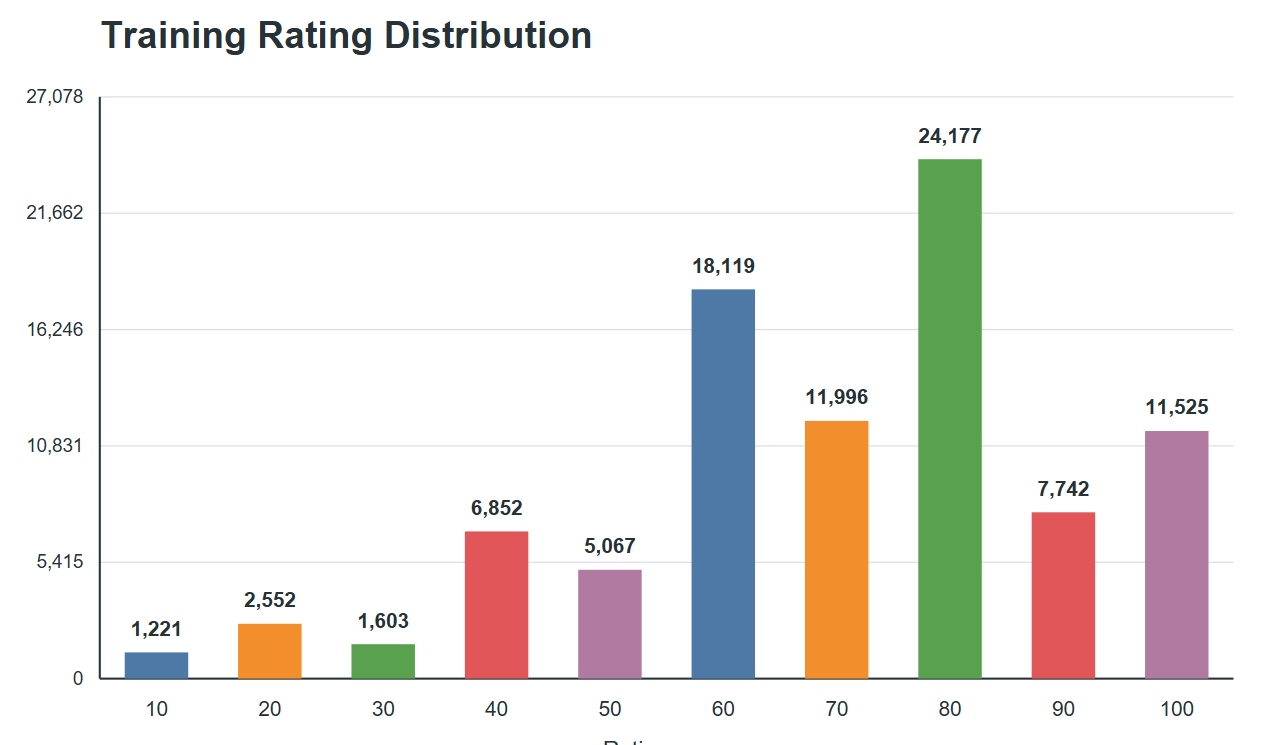
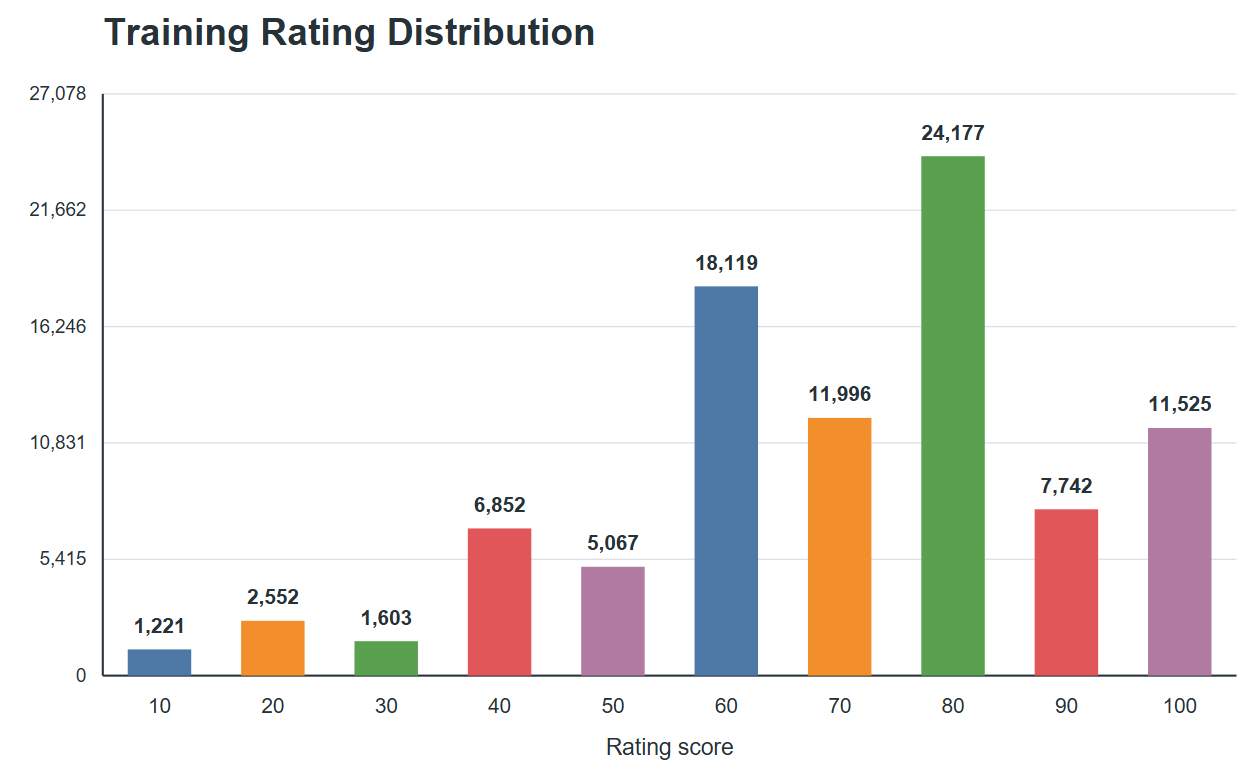
track2报告初版

Changed region(s): [[0.0311, 0.0926, 0.9944, 1.0], [0.0622, 0.0, 0.4972, 0.0926]]

diff --git a/任务二/report.tex b/任务二/report.tex
@@ -1,0 +1,356 @@
+% -*- coding: utf-8 -*-
+%-------------------------designed by zcf--------------
+\documentclass[UTF8,a4paper,10pt]{ctexart}
+\usepackage[left=3.17cm, right=3.17cm, top=2.74cm, bottom=2.74cm]{geometry}
+\usepackage{amsmath}
+\usepackage{graphicx,subfig}
+\usepackage{float}
+\usepackage{cite}
+\usepackage{caption}
+\usepackage{enumerate}
+\usepackage{booktabs} %表格
+\usepackage{array}
+\usepackage{tabularx}
+\usepackage{multirow}
+\usepackage{url}
+\usepackage{multirow}
+\newcommand{\tabincell}[2]{\begin{tabular}{@{}#1@{}}#2\end{tabular}}  %表格强制换行
+\usepackage{xcolor}
+\usepackage{listings}
+\usepackage{tikz}
+\usetikzlibrary{arrows.meta, positioning}
+%-------------------------字体设置--------------
+\definecolor{CodeBg}{RGB}{248,248,248}
+\definecolor{CodeGreen}{RGB}{0,128,0}
+\definecolor{CodeGray}{RGB}{120,120,120}
+\definecolor{CodePurple}{RGB}{136,0,136}
+\definecolor{CodeBlue}{RGB}{0,0,180}
+\definecolor{CodeOrange}{RGB}{200,100,0}
+% \usepackage{times}
+\usepackage{ctex}
+\usepackage[numbers]{natbib}
+\setCJKmainfont[ItalicFont=Noto Sans CJK SC Bold, BoldFont=Noto Serif CJK SC Black]{Noto Serif CJK SC}
+\newcommand{\yihao}{\fontsize{26pt}{36pt}\selectfont}           % 一号, 1.4 倍行距
+\newcommand{\erhao}{\fontsize{22pt}{28pt}\selectfont}          % 二号, 1.25倍行距
+\newcommand{\xiaoer}{\fontsize{18pt}{18pt}\selectfont}          % 小二, 单倍行距
+\newcommand{\sanhao}{\fontsize{16pt}{24pt}\selectfont}  %三号字
+\newcommand{\xiaosan}{\fontsize{15pt}{22pt}\selectfont}        % 小三, 1.5倍行距
+\newcommand{\sihao}{\fontsize{14pt}{21pt}\selectfont}            % 四号, 1.5 倍行距
+\newcommand{\banxiaosi}{\fontsize{13pt}{19.5pt}\selectfont}    % 半小四, 1.5倍行距
+\newcommand{\xiaosi}{\fontsize{12pt}{18pt}\selectfont}            % 小四, 1.5倍行距
+\newcommand{\dawuhao}{\fontsize{11pt}{11pt}\selectfont}       % 大五号, 单倍行距
+\newcommand{\wuhao}{\fontsize{10.5pt}{15.75pt}\selectfont}    % 五号, 单倍行距
+%-------------------------章节名----------------
+\usepackage{ctexcap}
+\CTEXsetup[name={,、},number={ \chinese{section}}]{section}
+\CTEXsetup[name={（,）},number={\chinese{subsection}}]{subsection}
+\CTEXsetup[name={,.},number={\arabic{subsubsection}}]{subsubsection}
+%-------------------------页眉页脚--------------
+\usepackage{fancyhdr}
+\pagestyle{fancy}
+\lhead{\kaishu \leftmark}
+% \chead{}
+\rhead{\kaishu 大数据计算及应用实验报告}%加粗\bfseries
+\lfoot{}
+\cfoot{\thepage}
+\rfoot{}
+\usepackage{graphicx}
+ \usepackage{tikz}
+\renewcommand{\headrulewidth}{0.1pt}
+\renewcommand{\footrulewidth}{0pt}%去掉横线
+\newcommand{\HRule}{\rule{\linewidth}{0.5mm}}%标题横线
+\newcommand{\HRulegrossa}{\rule{\linewidth}{1.2mm}}
+%-----------------------伪代码------------------
+\usepackage{algorithm}
+\usepackage{algorithmicx}
+\usepackage{algpseudocode}
+\floatname{algorithm}{Algorithm}
+\renewcommand{\algorithmicrequire}{\textbf{Input:}}
+\renewcommand{\algorithmicensure}{\textbf{Output:}}
+\usepackage{lipsum}
+\makeatletter
+\newenvironment{breakablealgorithm}
+  {% \begin{breakablealgorithm}
+  \begin{center}
+     \refstepcounter{algorithm}% New algorithm
+     \hrule height.8pt depth0pt \kern2pt% \@fs@pre for \@fs@ruled
+     \renewcommand{\caption}[2][\relax]{% Make a new \caption
+      {\raggedright\textbf{\ALG@name~\thealgorithm} ##2\par}%
+      \ifx\relax##1\relax % #1 is \relax
+         \addcontentsline{loa}{algorithm}{\protect\numberline{\thealgorithm}##2}%
+      \else % #1 is not \relax
+         \addcontentsline{loa}{algorithm}{\protect\numberline{\thealgorithm}##1}%
+      \fi
+      \kern2pt\hrule\kern2pt
+     }
+  }{% \end{breakablealgorithm}
+     \kern2pt\hrule\relax% \@fs@post for \@fs@ruled
+  \end{center}
+  }
+\makeatother
+%------------------------代码-------------------
+\usepackage{xcolor}
+\usepackage{listings}
+\lstset{
+breaklines,%自动换行
+basicstyle=\small,
+escapeinside=``,
+keywordstyle=\color{ blue!70} \bfseries,
+commentstyle=\color{red!50!green!50!blue!50},%
+stringstyle=\ttfamily,%
+extendedchars=false,%
+linewidth=\textwidth,%
+numbers=left,%
+numberstyle=\tiny \color{blue!50},%
+frame=trbl,%
+rulesepcolor= \color{ red!20!green!20!blue!20},
+showstringspaces=false
+}
+\usepackage{graphicx}
+\definecolor{codebg}{RGB}{248,248,248}
+\definecolor{keywordcolor}{RGB}{0,92,175}
+\definecolor{stringcolor}{RGB}{163,21,21}
+\definecolor{commentcolor}{RGB}{0,128,0}
+\definecolor{numbercolor}{RGB}{120,120,120}
+\definecolor{framecolor}{RGB}{220,220,220}
+
+\lstdefinestyle{pythonstyle}{
+    language=Python,
+    backgroundcolor=\color{codebg},
+    basicstyle=\ttfamily\small,
+    keywordstyle=\color{keywordcolor}\bfseries,
+    stringstyle=\color{stringcolor},
+    commentstyle=\color{commentcolor}\itshape,
+    numbers=left,
+    numberstyle=\tiny\color{numbercolor},
+    numbersep=8pt,
+    frame=single,
+    rulecolor=\color{framecolor},
+    breaklines=true,
+    breakatwhitespace=false,
+    showstringspaces=false,
+    tabsize=4,
+    keepspaces=true,
+    captionpos=b,
+    xleftmargin=1em,
+    xrightmargin=1em,
+    aboveskip=1em,
+    belowskip=1em
+}
+\lstset{style=pythonstyle}
+\usepackage{wrapfig}
+%------------超链接----------
+\usepackage[colorlinks,linkcolor=black,anchorcolor=blue]{hyperref}
+%------------------------TODO-------------------
+\usepackage{enumitem,amssymb}
+\newlist{todolist}{itemize}{2}
+\setlist[todolist]{label=$\square$}
+% for check symbol
+\usepackage{pifont}
+\newcommand{\cmark}{\ding{51}}%
+\newcommand{\xmark}{\ding{55}}%
+\newcommand{\done}{\rlap{$\square$}{\raisebox{2pt}{\large\hspace{1pt}\cmark}}\hspace{-2.5pt}}
+\newcommand{\wontfix}{\rlap{$\square$}{\large\hspace{1pt}\xmark}}
+
+
+
+%———————————————————————————————————————————正文———————————————————————————————————————————————
+%----------------------------------------------
+\begin{document}
+\begin{titlepage}
+    \begin{center}
+    \includegraphics[width=0.8\textwidth]{NKU.png}\\[1cm]
+    \textsc{\Huge \kaishu{\textbf{南\ \ \ \ \ \ 开\ \ \ \ \ \ 大\ \ \ \ \ \ 学}} }\\[0.9cm]
+    \textsc{\huge \kaishu{\textbf{计\ \ 算\ \ 机\ \ 学\ \ 院}}}\\[0.5cm]
+    \textsc{\Large \textbf{大数据计算及应用实验报告}}\\[0.8cm]
+    \HRule \\[0.9cm]
+    { \LARGE \bfseries 基于大语言模型的电影评分预测}\\[0.4cm]
+    \HRule \\[2.0cm]
+    \centering
+    \textsc{\LARGE \kaishu{成员：王斯毅，付家权，彭坤}}\\[0.5cm]
+    \textsc{\LARGE \kaishu{年级\ :\ 2023级}}\\[0.5cm]
+    \textsc{\LARGE \kaishu{专业\ :\ 计算机科学与技术}}\\[0.5cm]
+    \textsc{\LARGE \kaishu{指导教师\ :\ 杨征路}}\\[0.5cm]
+    \vfill
+    {\Large \today}
+    \end{center}
+\end{titlepage}
+%-------------摘------要--------------
+\newpage
+\thispagestyle{empty}
+%----------------------------------------------------------------
+\tableofcontents
+%----------------------------------------------------------------
+\newpage
+
+%=============================================
+\section{任务概述}
+%=============================================
+
+\subsection{任务目标}
+
+本任务的目标是基于大语言模型预测用户对电影的 1--5 星整数评分。给定一个用户的部分历史观影记录（含评分、评论）以及目标电影的元信息（名称、导演、类型标签、剧情简介、大众评分等），要求模型输出该用户对目标电影最可能的评分值。
+
+\subsection{任务形式}
+
+我们需编写一个 \texttt{generate\_prompt(ctx)} 函数，该函数接收评测框架构造的上下文对象 \texttt{ctx}，返回一对 \texttt{(system\_prompt, user\_prompt)} 字符串。该 prompt 随后被送入智谱 AI 的 \texttt{glm-4.5-air} 模型（$\text{temperature}=0$，禁用思考模式），由模型生成预测结果。评测框架通过正则表达式从模型响应中提取 \texttt{[Result:X]} 中的数字作为最终预测评分。
+
+整个任务中，我们\textbf{不直接训练模型}，而是通过设计 prompt 来引导 LLM 利用历史数据中的协同过滤信号与内容特征完成评分推断。
+
+\subsection{输入输出规范}
+
+\texttt{generate\_prompt(ctx)} 的输入 \texttt{ctx} 是一个 \texttt{PromptContext} 对象，封装了以下核心数据：
+
+\begin{table}[htbp]
+    \centering
+    \setlength{\tabcolsep}{8pt}
+    \caption{\texttt{PromptContext} 的主要属性}
+    \label{tab:ctx}
+    \small
+    \begin{tabular}{@{}p{0.28\textwidth}p{0.64\textwidth}@{}}
+        \toprule
+        \textbf{属性} & \textbf{说明} \\
+        \midrule
+        \texttt{ctx.user\_history} & 当前用户的历史评分列表，每条含 movie\_id、movie\_name、director、tags、rating、comment \\
+        \texttt{ctx.target\_movie}  & 目标电影信息字典（movie\_id、name、director、tags、summary、year、country 等） \\
+        \texttt{ctx.movies\_info}   & 全局电影知识库，以 movie\_id 为键索引每部电影的完整元信息 \\
+        \texttt{ctx.all\_users\_history} & 训练集中全部用户的历史列表 \\
+        \bottomrule
+    \end{tabular}
+\end{table}
+
+此外，\texttt{ctx} 还提供若干辅助方法，如 \texttt{get\_history\_sample(n, strategy)}（按最近/随机/最高分/最低分策略采样历史）、\texttt{get\_similar\_movies(n)}（基于标签交集检索与目标电影最相似的用户已评电影）、\texttt{get\_user\_stats()}（返回用户评分均值、分布等统计量）等。
+
+函数返回值为二元组 \texttt{(system\_prompt, user\_prompt)}，两者均为字符串，分别对应 LLM API 的 system 消息与 user 消息。两个 prompt 均受 1 MB 的长度上限约束，超出部分从尾部截断。
+
+%=============================================
+\section{数据说明}
+%=============================================
+
+\subsection{数据文件结构}
+
+本任务提供以下原始数据文件：
+
+\begin{table}[htbp]
+    \centering
+    \setlength{\tabcolsep}{14pt}
+    \caption{原始数据文件说明}
+    \label{tab:files}
+    \begin{tabular}{@{}lcp{0.42\textwidth}@{}}
+        \toprule
+        \textbf{文件} & \textbf{规模} & \textbf{说明} \\
+        \midrule
+        \texttt{train.json} & 28.9 MB & 训练数据，含 200 个用户的评分历史与 27,146 部电影的元信息 \\
+        \texttt{movies\_info.json} & 27.5 MB & 电影知识库独立副本，以 movie\_id 为键，与 train.json 中电影信息一致 \\
+        \texttt{test\_input.json} & 3 条样本 & 测试集样例，含 context\_history 与 target\_movie \\
+        \texttt{test\_answer.json} & 2 条答案 & 测试集答案样例 \\
+        \bottomrule
+    \end{tabular}
+\end{table}
+
+其中 \texttt{train.json} 是核心数据文件，其结构为一个字典，包含两个键：\texttt{“users”} 对应 200 个用户的评分历史列表，\texttt{“movies”} 对应 27,146 部电影的完整元信息字典。每部电影的信息字段包括名称（name）、导演（director）、剧情简介（summary）、大众评分（rating，豆瓣十分制字符串）、标签（tags）、国家/地区（country）、语言（language）和年份（year）。\texttt{movies\_info.json} 存储相同结构的电影元信息，作为独立的知识库文件供 \texttt{self\_test.py} 评测框架加载。
+
+\texttt{test\_input.json} 和 \texttt{test\_answer.json} 仅为样例文件（分别含 3 条和 2 条记录），用于说明测试格式，其中的 user\_id 和 movie\_id 均为占位符。
+
+\subsection{基本统计量}
+
+表~\ref{tab:basic_stats} 汇总了 \texttt{train.json} 的核心统计指标。
+
+\begin{table}[htbp]
+    \centering
+    \setlength{\tabcolsep}{32pt}
+    \caption{训练集基本统计量}
+    \label{tab:basic_stats}
+    \begin{tabular}{@{}lr@{}}
+        \toprule
+        \textbf{指标} & \textbf{数值} \\
+        \midrule
+        用户数 & 200 \\
+        评分数 & 2,000 \\
+        评分涉及电影数（去重） & 1,019 \\
+        电影知识库覆盖电影数 & 27,146 \\
+        \midrule
+        评分范围 & 1--5（整数） \\
+        全局平均评分 & 3.65 \\
+        评分标准差 & 1.01 \\
+        可能的 (用户, 电影) 对数 & 5,429,200 \\
+        \textbf{评分稀疏度} & \textbf{99.96\%} \\
+        \bottomrule
+    \end{tabular}
+\end{table}
+
+数据集极度稀疏：已知评分仅占可能评分对的 0.04\%。绝大多数用户-电影对从无交互，且 27,146 部电影中仅 1,019 部有评分记录。这意味着模型需要依赖有限的协同信号和丰富的内容特征进行泛化。与传统的矩阵分解方法不同，本任务中 LLM 无法直接对评分矩阵进行低秩建模，而是通过 prompt 中呈现的少量用户历史与电影内容特征进行推断。
+
+\subsection{评分分布}
+
+\begin{table}[htbp]
+    \centering
+    \setlength{\tabcolsep}{28pt}
+    \caption{全量评分分布（200 名用户 $\times$ 10 条 = 2,000 条）}
+    \label{tab:rating_dist}
+    \begin{tabular}{@{}lccccc@{}}
+        \toprule
+        \textbf{评分} & 1 & 2 & 3 & 4 & 5 \\
+        \midrule
+        \textbf{数量} & 61 & 187 & 559 & 775 & 418 \\
+        \textbf{占比} & 3.05\% & 9.35\% & 27.95\% & 38.75\% & 20.90\% \\
+        \bottomrule
+    \end{tabular}
+\end{table}
+
+评分分布呈明显的\textbf{高分偏态}：4 分的样本最多（38.75\%），3--5 分合计占 87.6\%，而 1--2 分仅占 12.4\%。这与电影评分场景的常见模式一致——用户倾向于评价自己喜欢的电影，低分评价相对稀缺。在 prompt 设计中，需注意这种偏态：若不加先验锚点，LLM 可能会自然倾向于预测中间的 3 分，而忽略数据本身的高分倾向。
+
+\subsection{用户与物品活跃度}
+
+\begin{table}[htbp]
+    \centering
+    \setlength{\tabcolsep}{20pt}
+    \caption{用户与物品的评分数统计}
+    \label{tab:activity}
+    \begin{tabular}{@{}lccccc@{}}
+        \toprule
+        \textbf{对象} & \textbf{均值} & \textbf{最少} & \textbf{最多} & \textbf{中位数} \\
+        \midrule
+        用户评分数 & 10.0 & 10 & 10 & 10 \\
+        物品被评数 & 2.0  & 1  & 46 & 1 \\
+        \bottomrule
+    \end{tabular}
+\end{table}
+
+用户活跃度分布极为均匀：\textbf{每个用户恰好有 10 条评分记录}。这与真实推荐场景差异较大——通常用户活跃度呈长尾分布。此处均匀设计意味着每个测试用户可用的历史信息量基本相同，方案设计时无需考虑用户冷热不均的问题，但同时也意味着无法通过“高活跃用户有更多协同信号”来提升部分样本的预测精度。
+
+物品端则呈现典型的\textbf{长尾分布}：1,019 部被评电影中，72.4\%（738 部）仅被评价 1 次，中位数为 1；仅 26 部电影被评价超过 10 次，最高为 46 次。表~\ref{tab:movie_buckets} 展示了物品被评次数的详细分桶。
+
+\begin{table}[htbp]
+    \centering
+    \setlength{\tabcolsep}{18pt}
+    \caption{物品被评次数分布}
+    \label{tab:movie_buckets}
+    \begin{tabular}{@{}lcccccc@{}}
+        \toprule
+        \textbf{被评次数} & 1 & 2--3 & 4--5 & 6--10 & 11--30 & 30+ \\
+        \midrule
+        \textbf{电影数} & 738 & 206 & 30 & 19 & 21 & 5 \\
+        \textbf{占比} & 72.4\% & 20.2\% & 2.9\% & 1.9\% & 2.1\% & 0.5\% \\
+        \bottomrule
+    \end{tabular}
+\end{table}
+
+大多数电影的协同信号极弱，难以通过“同时评价过某两部电影的用户”这类共现模式进行推断。内容特征（标签、导演、类型）在冷门电影的预测中将扮演更重要的角色。
+
+\subsection{数据质量问题}
+
+数据中存在若干格式不一致的问题，需要在 Python 预处理阶段进行处理：
+
+\begin{enumerate}
+    \item \textbf{标签格式混排}。标签字段在用户历史与电影信息中采用不同的存储格式。用户历史中标签为 Python 列表字符串（如 \texttt{['青春', '成长', '大陆', '爱情']}），而电影知识库中标签为逗号分隔的“标签-频次”混排格式（如 \texttt{周星驰, 17182, 喜剧, 8956, 香港, 6586}），其中数字为该标签在豆瓣上被用户标记的次数。此外标签列表常混入纯数字年份（如 \texttt{2013}、\texttt{2018}），需要统一过滤与归一化。
+
+    \item \textbf{导演字段格式不统一}。用户历史中的导演以 JSON 字典字符串存储（如 \texttt{\{'1274348': '刘杰'\}}，键为豆瓣导演 ID、值为导演名），而电影知识库中为纯文本（如 \texttt{周星驰} 或逗号分隔的多导演列表）。需要统一解析以提取可读的导演名。
+
+    \item \textbf{大众评分需归一化}。电影知识库中的 \texttt{rating} 字段为豆瓣十分制评分，以字符串形式存储（如 \texttt{“7.2”}、\texttt{“8.7”}），需先转为浮点数再映射为 1--5 星制。此外部分条目可能采用百分比等非标准格式，需要容错处理。
+
+    \item \textbf{年份标签混入}。部分标签列表中含有四位数字年份，这些数字不传达内容语义，但可作为电影发行时代的辅助信号。清洗时通常将其从标签列表中分离。
+\end{enumerate}
+
+
+\end{document}